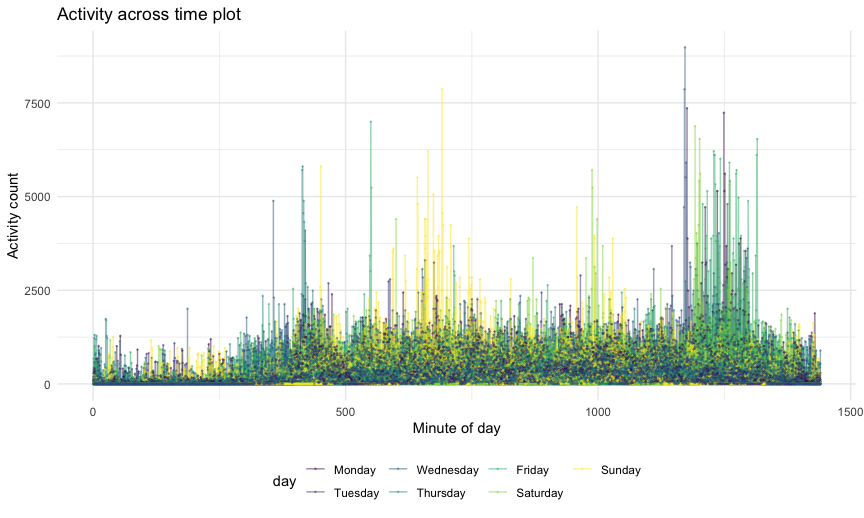
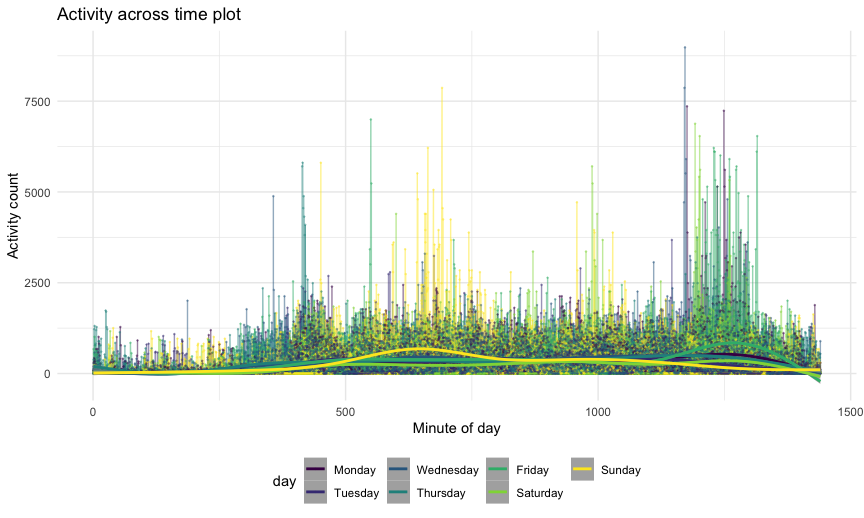
add geom_smooth for prob2.3

diff --git a/p8105_hw3_xy2476.md b/p8105_hw3_xy2476.md
@@ -1,7 +1,7 @@
 Homework 3 solutions
 ================
 Rio Yan
-2020-10-09
+2020-10-10
 
 ## Problem 1
 
@@ -203,10 +203,13 @@ accel_df %>%
   ggplot(aes(x = minute_of_day, y = activity_count, color = day)) +
   geom_line(alpha = 0.5) +
   geom_point(alpha = 0.3, size = 0.2) +
+  geom_smooth(alpha = 0.8) +
   labs(title = "Activity across time plot",
        x = "Minute of day",
        y = "Activity count")
 ```
+
+    ## `geom_smooth()` using method = 'gam' and formula 'y ~ s(x, bs = "cs")'
 
 <img src="p8105_hw3_xy2476_files/figure-gfm/unnamed-chunk-8-1.png" width="90%" />
 
@@ -215,12 +218,13 @@ Description of the graph:
 From the graph, we can see that the participant usually wakes up at
 around 7 am(420th min) and goes to bed at around 9:30pm(1300th min).
 There are a couple of clusters of high activity count around 10 am(600th
-min), 4:30pm(1000th min), and around 9pm(1250th min). 10 am cluster
-usually happens on Sundays, 4:30pm one usually happens on Saturday and
-Sunday, and 9pm one usually happens on Tuesdays, Wednesdays, Fridays and
-Saturdays. These may indicate that the participant is more active during
-the nights across all days, but tries to be more active in the morning
-or the afternoon during the weekends.
+min), 4:30pm(1000th min), and around 9pm(1250th min). The clusters are
+more apparent when I added the geom\_smooth line, especially around 10am
+and 9pm. 10 am cluster usually happens on Sundays, 4:30pm one usually
+happens on Saturday and Sunday, and 9pm one usually happens on Tuesdays,
+Wednesdays, Fridays and Saturdays. These may indicate that the
+participant is more active during the nights across all days, but tries
+to be more active in the morning or the afternoon during the weekends.
 
 ## Problem 3
 
